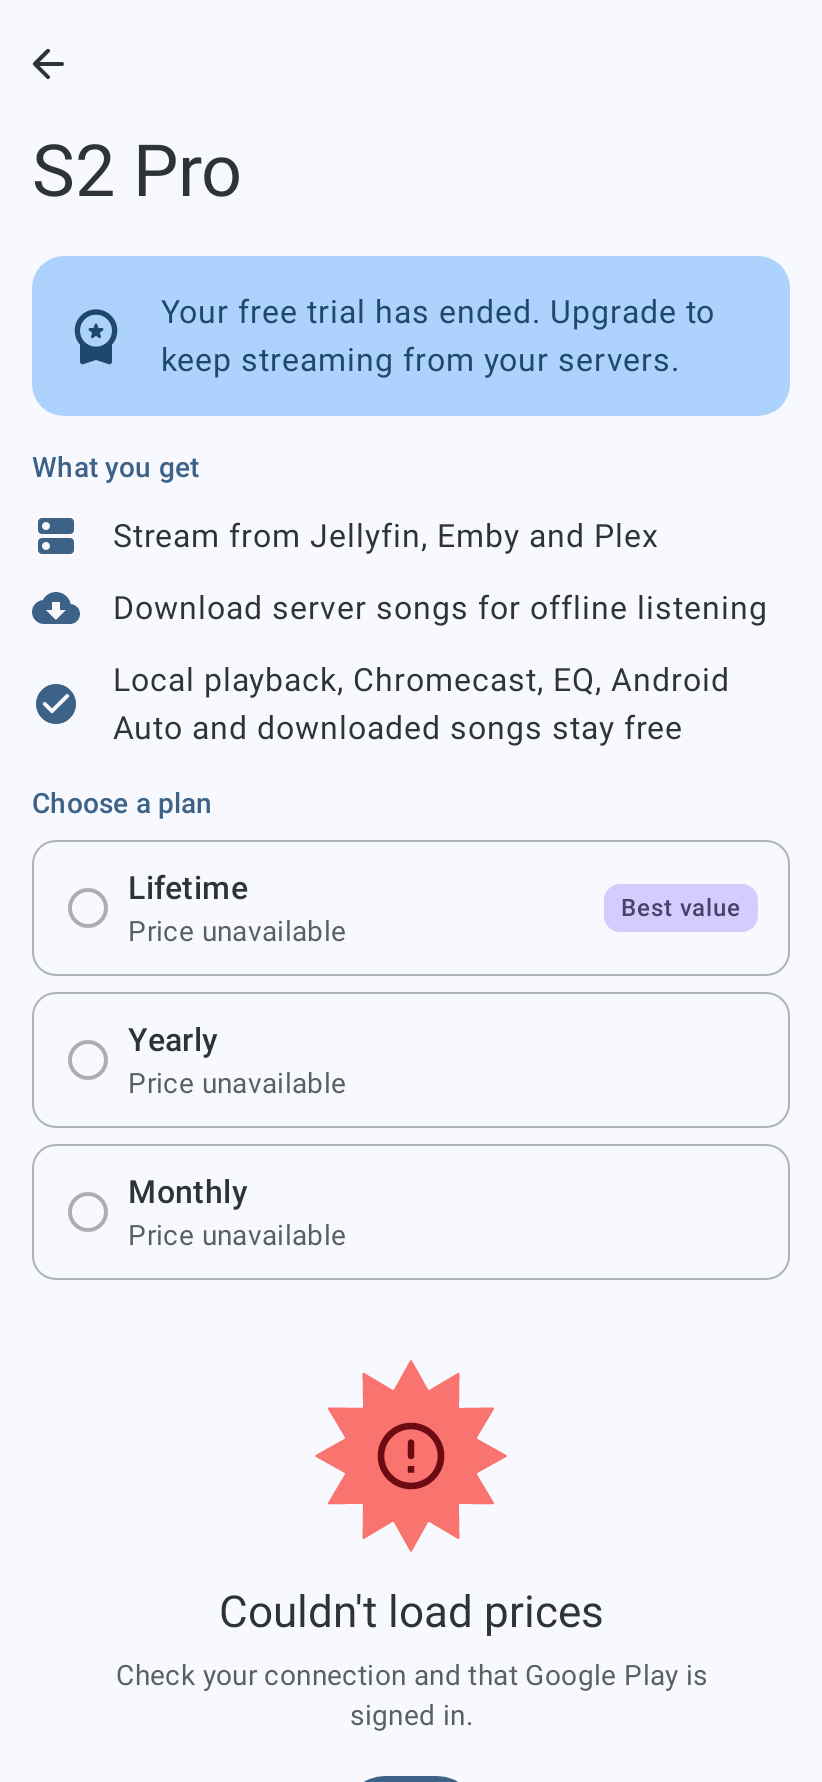
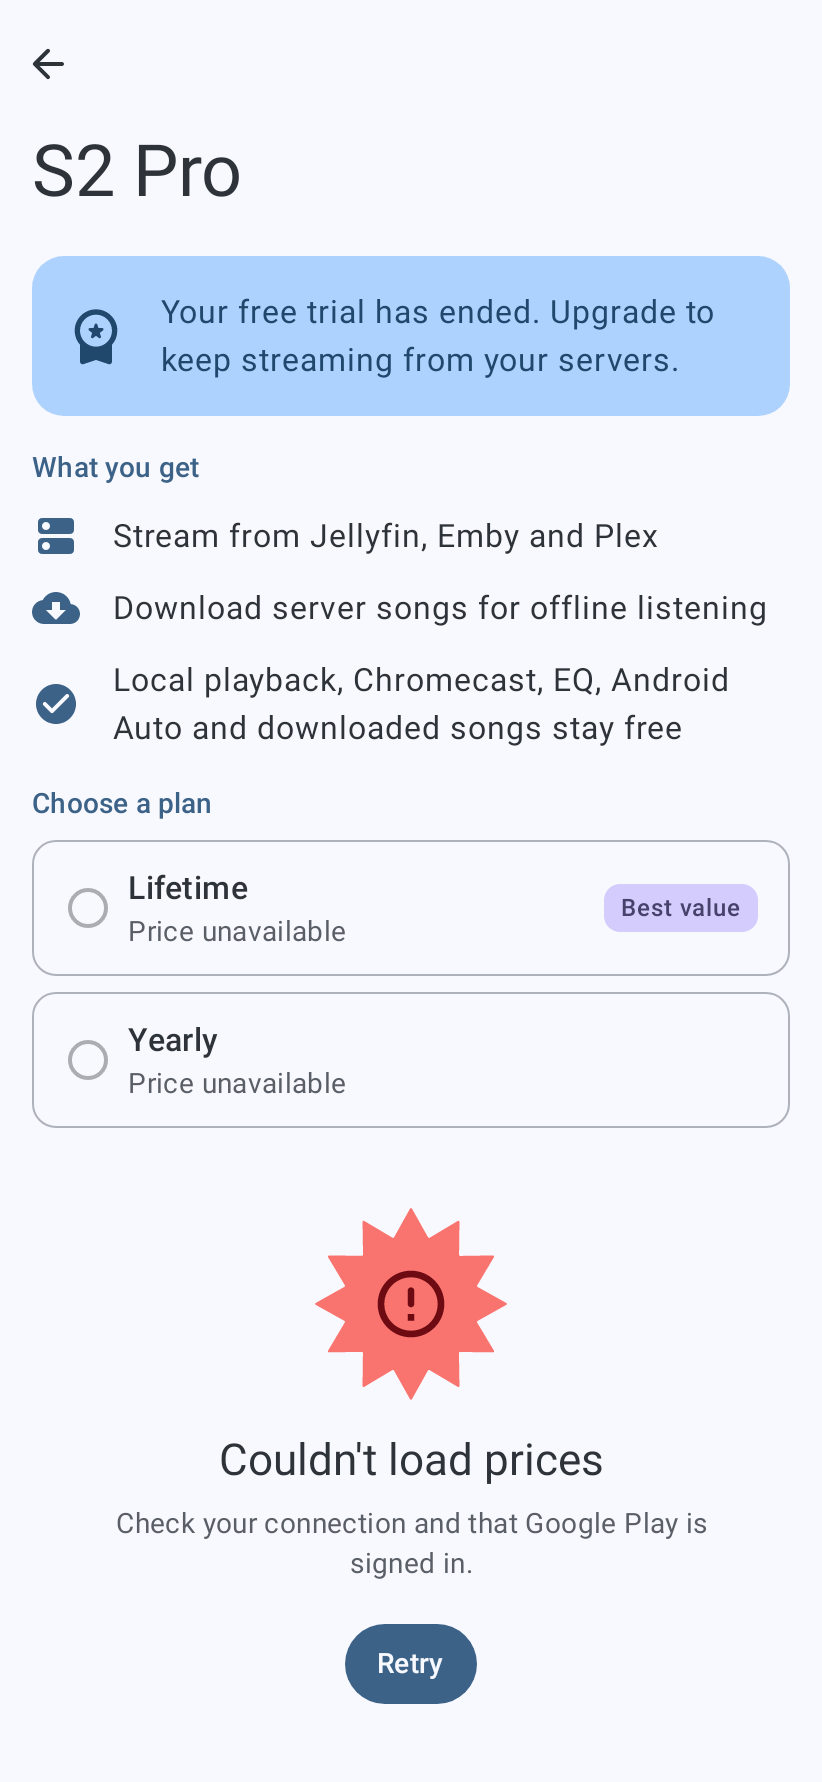
feat(trial): drop the monthly plan, price S2 Pro per the owner's decision
Issue #380: lifetime $9.99, annual $3.99, no monthly base plan (the
14-day trial covers trying it, and 12 monthly payments would exceed
lifetime anyway). Removes PaywallPlan.Monthly and
ProductIds.PRO_BASE_PLAN_MONTHLY; the paywall now offers only Lifetime
and Annual, lifetime first. Legacy monthly subscribers keep Pro via
LEGACY_SUBSCRIPTION_MONTHLY, already covered by EntitlementResolverTest.

Changelog: S2 Pro is a one-time purchase or an annual subscription

Changed region(s): [[0.1521, 0.6481, 0.7299, 1.0], [0.7603, 0.9259, 0.8212, 0.9568], [0.7603, 0.8333, 0.8212, 0.8642]]

diff --git a/android/trial/src/main/java/com/simplecityapps/trial/PaywallOffer.kt b/android/trial/src/main/java/com/simplecityapps/trial/PaywallOffer.kt
@@ -5,8 +5,7 @@ import com.android.billingclient.api.ProductDetails
 /** How a [PaywallOffer] is paid for. */
 enum class PaywallPlan {
     Lifetime,
-    Annual,
-    Monthly
+    Annual
 }
 
 /**
@@ -25,7 +24,7 @@ data class PaywallOffer(
 
 /**
  * The offers for [this] product details: the S2 Pro products if Play returned any, otherwise the legacy ones still
- * on sale. One offer per one-time product and per yearly or monthly subscription base plan, lifetime first.
+ * on sale. One offer per one-time product and per annual subscription base plan, lifetime first.
  */
 internal fun List<ProductDetails>.toPaywallOffers(): List<PaywallOffer> {
     val pro = filter { it.productId == ProductIds.PRO_SUBSCRIPTION || it.productId == ProductIds.PRO_LIFETIME }
@@ -38,12 +37,8 @@ internal fun List<ProductDetails>.toPaywallOffers(): List<PaywallOffer> {
                 .filter { it.offerId == null }
                 .mapNotNull { offer ->
                     val phase = offer.pricingPhases.pricingPhaseList.lastOrNull() ?: return@mapNotNull null
-                    val plan = when (phase.billingPeriod) {
-                        "P1Y" -> PaywallPlan.Annual
-                        "P1M" -> PaywallPlan.Monthly
-                        else -> return@mapNotNull null
-                    }
-                    PaywallOffer(details.productId, plan, phase.formattedPrice, offer.offerToken)
+                    if (phase.billingPeriod != "P1Y") return@mapNotNull null
+                    PaywallOffer(details.productId, PaywallPlan.Annual, phase.formattedPrice, offer.offerToken)
                 }
         }
         .sortedBy { it.plan }

diff --git a/android/trial/src/test/java/com/simplecityapps/trial/PaywallOffersTest.kt b/android/trial/src/test/java/com/simplecityapps/trial/PaywallOffersTest.kt
@@ -41,18 +41,17 @@ class PaywallOffersTest {
     }
 
     @Test
-    fun `offers the S2 Pro products lifetime first, one offer per base plan`() {
+    fun `offers the S2 Pro products lifetime first, ignoring any base plan but the annual one`() {
         val offers = listOf(
-            subscription(ProductIds.PRO_SUBSCRIPTION, basePlan("P1M", "$1.49"), basePlan("P1Y", "$5.99"), basePlan("P1Y", "$2.99", offerId = "intro")),
-            oneTime(ProductIds.PRO_LIFETIME, "$14.99"),
+            subscription(ProductIds.PRO_SUBSCRIPTION, basePlan("P1Y", "$3.99"), basePlan("P1M", "$1.49"), basePlan("P1Y", "$2.99", offerId = "intro")),
+            oneTime(ProductIds.PRO_LIFETIME, "$9.99"),
             oneTime(ProductIds.LEGACY_LIFETIME_LOW, "$4.99")
         ).toPaywallOffers()
 
         assertEquals(
             listOf(
-                PaywallOffer(ProductIds.PRO_LIFETIME, PaywallPlan.Lifetime, "$14.99", offerToken = null),
-                PaywallOffer(ProductIds.PRO_SUBSCRIPTION, PaywallPlan.Annual, "$5.99", "token-P1Y-null"),
-                PaywallOffer(ProductIds.PRO_SUBSCRIPTION, PaywallPlan.Monthly, "$1.49", "token-P1M-null")
+                PaywallOffer(ProductIds.PRO_LIFETIME, PaywallPlan.Lifetime, "$9.99", offerToken = null),
+                PaywallOffer(ProductIds.PRO_SUBSCRIPTION, PaywallPlan.Annual, "$3.99", "token-P1Y-null")
             ),
             offers
         )

diff --git a/android/app/src/test/java/com/simplecityapps/shuttle/ui/screens/paywall/PaywallViewModelTest.kt b/android/app/src/test/java/com/simplecityapps/shuttle/ui/screens/paywall/PaywallViewModelTest.kt
@@ -63,14 +63,14 @@ class PaywallViewModelTest {
         val viewModel = collectedViewModel()
         viewModel.uiState.value.selectedOffer shouldBe FakeBilling.LIFETIME
 
-        viewModel.onSelectPlan(PaywallPlan.Monthly)
+        viewModel.onSelectPlan(PaywallPlan.Annual)
 
-        viewModel.uiState.value.selectedOffer shouldBe FakeBilling.MONTHLY
+        viewModel.uiState.value.selectedOffer shouldBe FakeBilling.ANNUAL
     }
 
     @Test
     fun `without a lifetime offer the first plan on sale is selected`() = runTest {
-        billing.offers.value = PaywallOffers.Available(listOf(FakeBilling.ANNUAL, FakeBilling.MONTHLY))
+        billing.offers.value = PaywallOffers.Available(listOf(FakeBilling.ANNUAL))
 
         collectedViewModel().uiState.value.selectedOffer shouldBe FakeBilling.ANNUAL
     }
@@ -88,9 +88,9 @@ class PaywallViewModelTest {
 
         // Only the purchase made once prices arrived reaches the screen.
         billing.offers.value = PaywallOffers.Available(FakeBilling.SAMPLE_OFFERS)
-        viewModel.onSelectPlan(PaywallPlan.Monthly)
+        viewModel.onSelectPlan(PaywallPlan.Annual)
         viewModel.onPurchase()
-        viewModel.events.first() shouldBe PaywallUiEvent.LaunchPurchase(FakeBilling.MONTHLY)
+        viewModel.events.first() shouldBe PaywallUiEvent.LaunchPurchase(FakeBilling.ANNUAL)
     }
 
     @Test

diff --git a/android/app/src/test/java/com/simplecityapps/shuttle/ui/screens/paywall/PaywallScreenTest.kt b/android/app/src/test/java/com/simplecityapps/shuttle/ui/screens/paywall/PaywallScreenTest.kt
@@ -23,12 +23,11 @@ class PaywallScreenTest {
         robot.assertDisplayed("Add a Jellyfin, Emby or Plex server to start a free 14-day trial.")
         robot.assertDisplayed("What you get")
         robot.assertDisplayed("Stream from Jellyfin, Emby and Plex")
-        robot.assertDisplayed("$14.99 once")
-        robot.assertDisplayed("$5.99 / year")
-        robot.assertDisplayed("$1.49 / month")
+        robot.assertDisplayed("$9.99 once")
+        robot.assertDisplayed("$3.99 / year")
         robot.assertDisplayed("Best value")
         robot.assertPlanSelected("Lifetime")
-        robot.assertPlanNotSelected("Monthly")
+        robot.assertPlanNotSelected("Yearly")
         robot.assertEnabled("Get S2 Pro")
     }
 
@@ -43,10 +42,10 @@ class PaywallScreenTest {
     fun `tapping a plan selects it, and the button buys it`() {
         robot.setContent(PaywallScenarios.free)
 
-        robot.tapPlan("Monthly")
+        robot.tapPlan("Yearly")
         robot.tapText("Get S2 Pro")
 
-        robot.selectedPlans shouldBe listOf(PaywallPlan.Monthly)
+        robot.selectedPlans shouldBe listOf(PaywallPlan.Annual)
         robot.purchases shouldBe 1
     }
 

diff --git a/android/app/src/test/java/com/simplecityapps/fakes/FakeBilling.kt b/android/app/src/test/java/com/simplecityapps/fakes/FakeBilling.kt
@@ -40,9 +40,8 @@ class FakeBilling(
     }
 
     companion object {
-        val LIFETIME = PaywallOffer("s2_pro_lifetime", PaywallPlan.Lifetime, "$14.99", offerToken = null)
-        val ANNUAL = PaywallOffer("s2_pro", PaywallPlan.Annual, "$5.99", offerToken = "annual")
-        val MONTHLY = PaywallOffer("s2_pro", PaywallPlan.Monthly, "$1.49", offerToken = "monthly")
-        val SAMPLE_OFFERS = listOf(LIFETIME, ANNUAL, MONTHLY)
+        val LIFETIME = PaywallOffer("s2_pro_lifetime", PaywallPlan.Lifetime, "$9.99", offerToken = null)
+        val ANNUAL = PaywallOffer("s2_pro", PaywallPlan.Annual, "$3.99", offerToken = "annual")
+        val SAMPLE_OFFERS = listOf(LIFETIME, ANNUAL)
     }
 }

diff --git a/android/app/src/main/java/com/simplecityapps/shuttle/ui/screens/paywall/PaywallScreen.kt b/android/app/src/main/java/com/simplecityapps/shuttle/ui/screens/paywall/PaywallScreen.kt
@@ -266,7 +266,6 @@ private val PaywallPlan.title: Int
     get() = when (this) {
         PaywallPlan.Lifetime -> R.string.paywall_plan_lifetime
         PaywallPlan.Annual -> R.string.paywall_plan_annual
-        PaywallPlan.Monthly -> R.string.paywall_plan_monthly
     }
 
 @Composable
@@ -274,7 +273,6 @@ private fun PaywallPlan.priceText(price: String): String {
     val pattern = when (this) {
         PaywallPlan.Lifetime -> R.string.paywall_price_once
         PaywallPlan.Annual -> R.string.purchase_price_annual
-        PaywallPlan.Monthly -> R.string.purchase_price_monthly
     }
     return Phrase.from(stringResource(pattern)).put("price", price).format().toString()
 }

diff --git a/android/trial/src/main/java/com/simplecityapps/trial/ProductIds.kt b/android/trial/src/main/java/com/simplecityapps/trial/ProductIds.kt
@@ -10,9 +10,8 @@ object ProductIds {
     /** One-time purchase of S2 Pro. */
     const val PRO_LIFETIME = "s2_pro_lifetime"
 
-    /** The S2 Pro subscription. Its base plans are [PRO_BASE_PLAN_MONTHLY] and [PRO_BASE_PLAN_ANNUAL]. */
+    /** The S2 Pro subscription. Its only base plan is [PRO_BASE_PLAN_ANNUAL]; there is no monthly plan. */
     const val PRO_SUBSCRIPTION = "s2_pro"
-    const val PRO_BASE_PLAN_MONTHLY = "monthly"
     const val PRO_BASE_PLAN_ANNUAL = "annual"
 
     const val LEGACY_LIFETIME = "s2_iap_full_version"

diff --git a/android/app/src/test/java/com/simplecityapps/shuttle/ui/screens/paywall/PaywallRobot.kt b/android/app/src/test/java/com/simplecityapps/shuttle/ui/screens/paywall/PaywallRobot.kt
@@ -76,7 +76,7 @@ class PaywallRobot(private val rule: ComposeContentTestRule) {
 
     /** For text every plan card shows, like a placeholder price. */
     fun assertShownOnEveryPlan(text: String) {
-        rule.onAllNodesWithText(text).assertCountEquals(3).onFirst().assertIsDisplayed()
+        rule.onAllNodesWithText(text).assertCountEquals(2).onFirst().assertIsDisplayed()
     }
 
     fun assertNotShown(text: String) {
